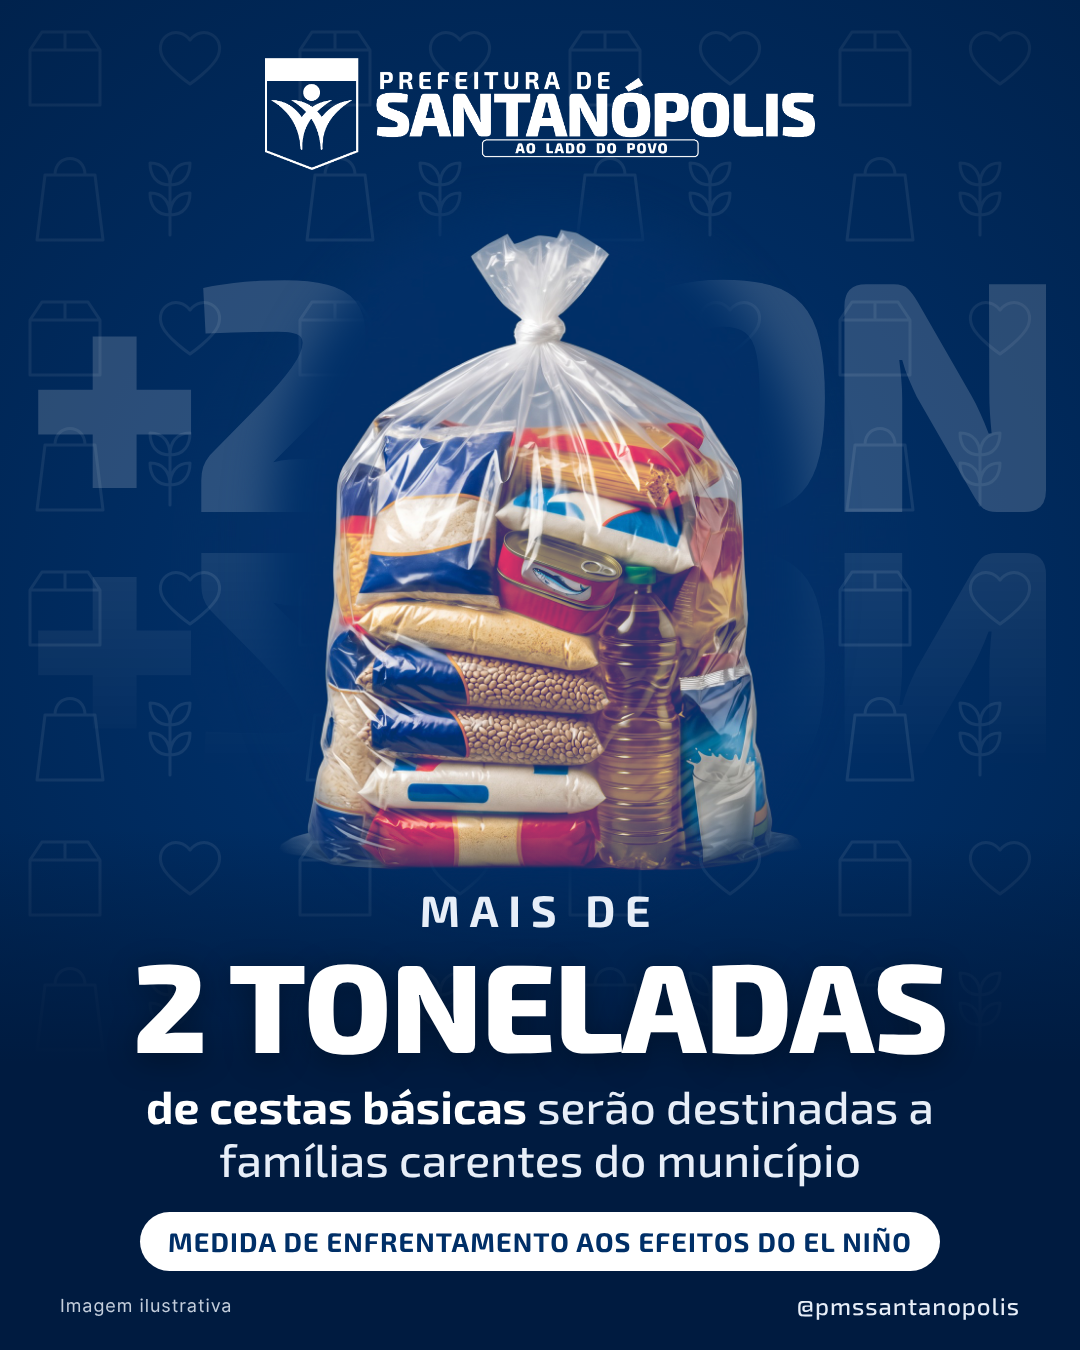
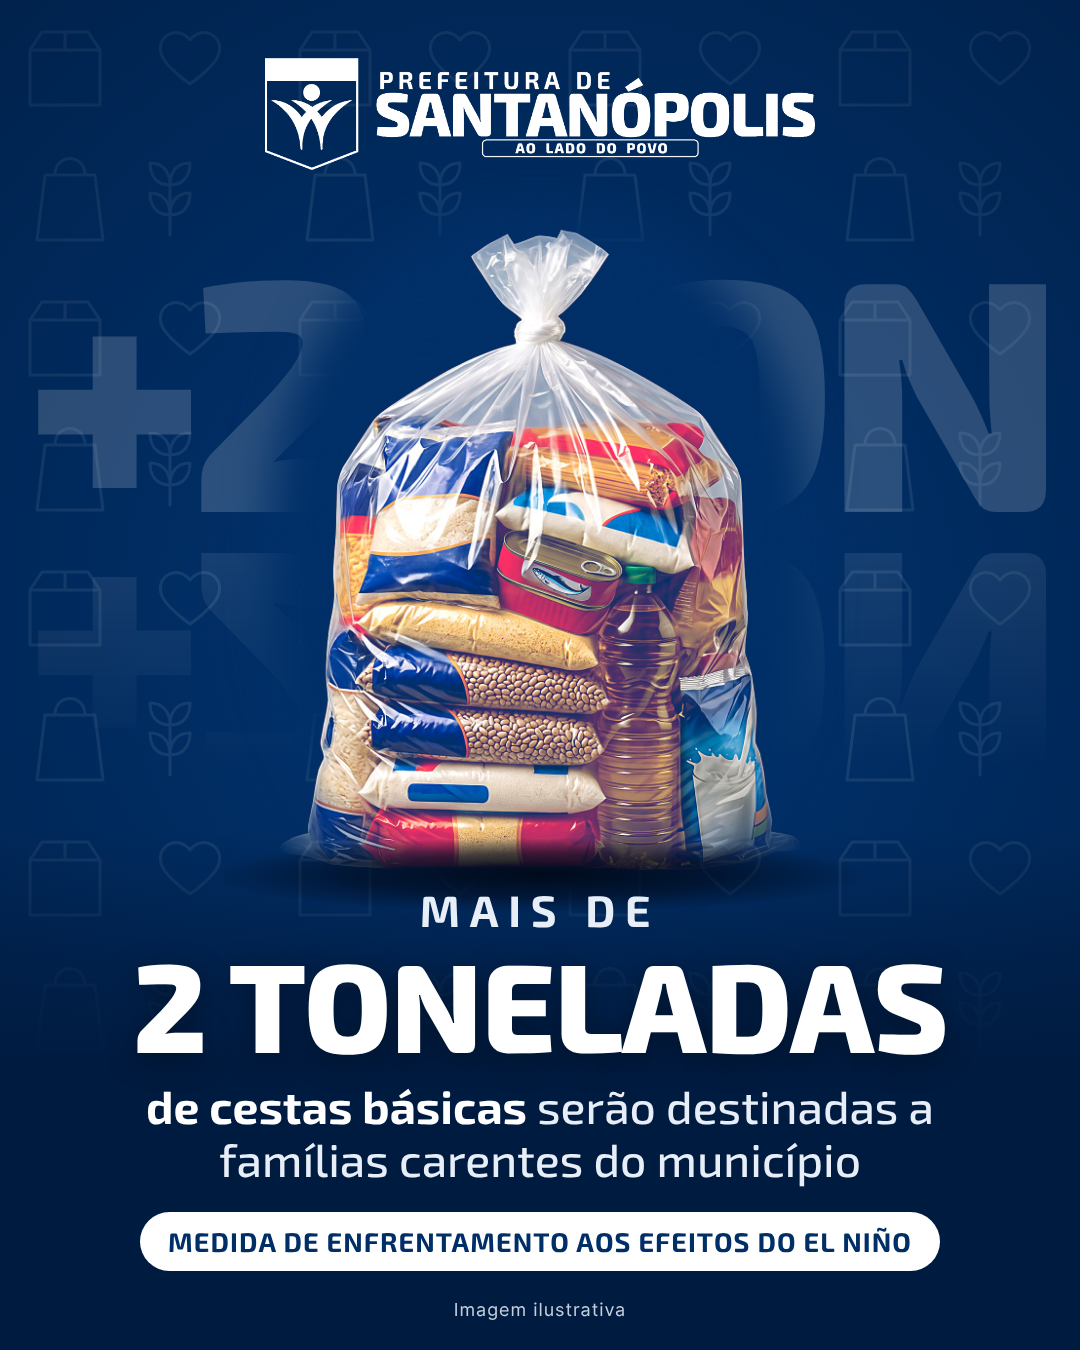
Prefeitura: card das cestas sem @, cesta mais nítida e sombra na base
Claude-Session: https://claude.ai/code/session_01RAcsiCjxcoRFE1mKcnMpXn

diff --git a/clientes/prefeitura-santanopolis/entregas/2026-11-12-cestas-basicas-el-nino/card.html b/clientes/prefeitura-santanopolis/entregas/2026-11-12-cestas-basicas-el-nino/card.html
@@ -14,6 +14,7 @@ body{width:1080px;height:1350px;position:relative;overflow:hidden;background:var
 .furo{position:absolute;left:270px;top:215px;width:540px;height:680px;border-radius:45%;background:var(--azul);filter:blur(22px)}
 .foto{position:absolute;left:150px;top:170px;width:780px;height:780px;background:url(../../fotos/social/2026-11-12-cesta-basica-saco-ilustrativa-ia.jpg) center/cover;mix-blend-mode:lighten;
   -webkit-mask-image:radial-gradient(ellipse 50% 50% at 50% 50%,#000 78%,transparent 100%)}
+.sombra{position:absolute;left:215px;top:838px;width:650px;height:74px;border-radius:50%;background:radial-gradient(ellipse at center,rgba(0,4,14,.95) 0,rgba(0,4,14,.6) 40%,transparent 72%)}
 .base{position:absolute;left:0;right:0;bottom:0;height:520px;background:linear-gradient(to top,#001B40 0,#001B40 55%,transparent 100%)}
 .texto{position:absolute;left:60px;right:60px;top:888px;text-align:center}
 .mais{font:700 44px/1 "Exo 2";letter-spacing:.22em;color:var(--tinta)}
@@ -21,12 +22,12 @@ h1{font:800 126px/1 "Exo 2";letter-spacing:-.01em;margin-top:8px;text-shadow:0 6
 .sub{font:700 46px/1.15 "Exo 2";margin-top:14px}
 .sub span{color:var(--tinta);font-weight:500}
 .tag{display:inline-block;margin-top:26px;background:#fff;color:var(--azul);font:700 27px/1 "Exo 2";letter-spacing:.04em;padding:16px 28px;border-radius:999px}
-footer{position:absolute;left:60px;right:60px;bottom:30px;display:flex;justify-content:space-between;align-items:center;font:500 24px "Exo 2";letter-spacing:.04em;color:var(--tinta)}
+footer{position:absolute;left:60px;right:60px;bottom:30px;display:flex;justify-content:center;align-items:center;font:500 24px "Exo 2";letter-spacing:.04em;color:var(--tinta)}
 footer small{font:400 18px Inter;opacity:.85}
 </style>
 <div class="padrao"></div><div class="luz"></div>
 <div class="gigante">+2 TON</div><div class="gigante reflexo">+2 TON</div>
-<div class="furo"></div><div class="foto"></div>
+<div class="furo"></div><div class="foto"></div><div class="sombra"></div>
 <div class="base"></div>
 <div class="logo"><img src="../../identidade/logo-prefeitura-branco.png" alt=""></div>
 <div class="texto">
@@ -35,4 +36,4 @@ footer small{font:400 18px Inter;opacity:.85}
   <div class="sub">de cestas básicas <span>serão destinadas a<br>famílias carentes do município</span></div>
   <div class="tag">MEDIDA DE ENFRENTAMENTO AOS EFEITOS DO EL NIÑO</div>
 </div>
-<footer><small>Imagem ilustrativa</small><span>@pmssantanopolis</span></footer>
+<footer><small>Imagem ilustrativa</small></footer>
